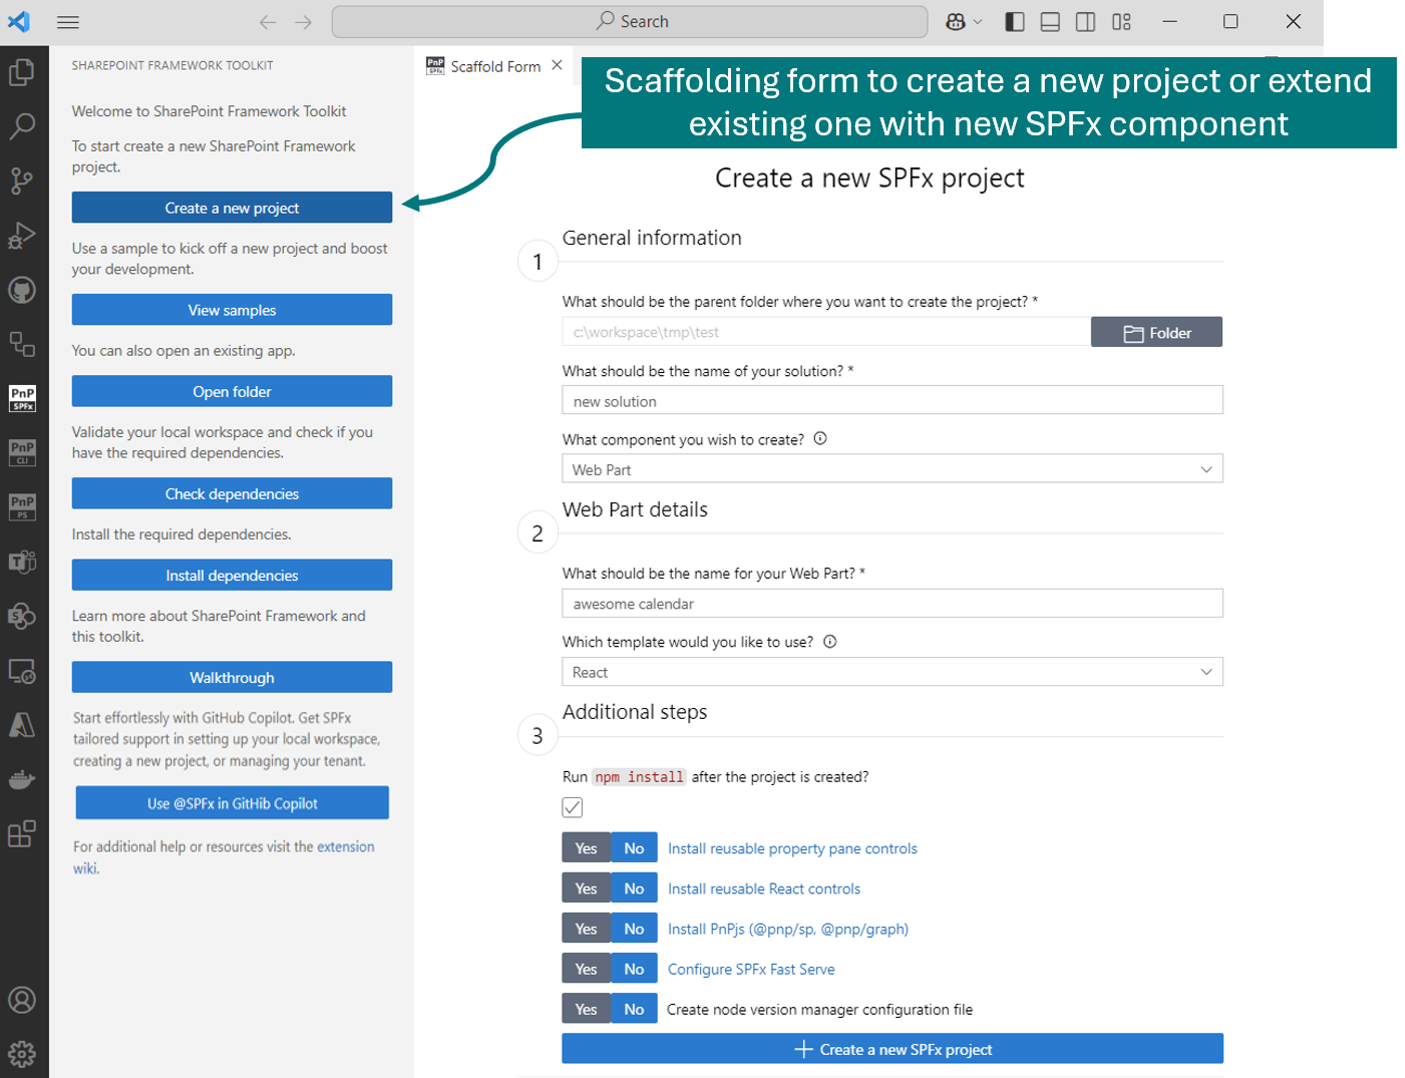
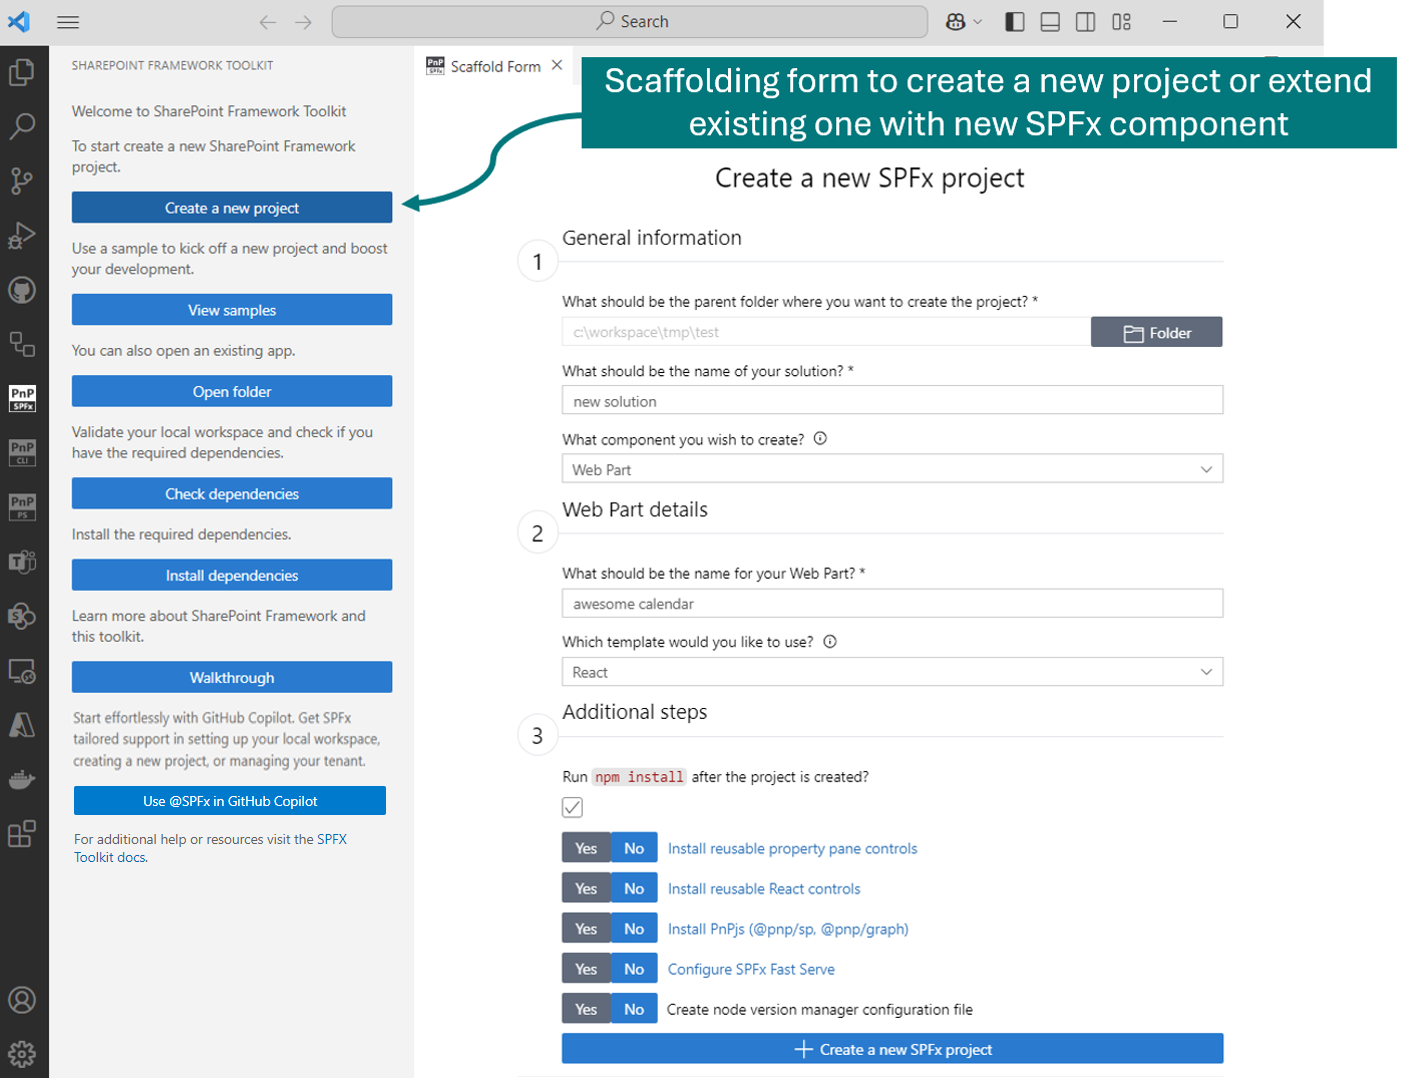
Update wiki link to a new name and URL. Closes #479

Changed region(s): [[0.0306, 0.7041, 0.2754, 0.8265]]

diff --git a/src/panels/CommandPanel.ts b/src/panels/CommandPanel.ts
@@ -346,7 +346,7 @@ export class CommandPanel {
         new ActionTreeItem('Join the Microsoft 365 & Power Platform Community Discord Server', '', { name: 'feedback', custom: false }, undefined, 'vscode.open', Uri.parse('https://aka.ms/community/discord'))
       ]),
       new ActionTreeItem('Support', '', undefined, TreeItemCollapsibleState.Expanded, undefined, undefined, undefined, [
-        new ActionTreeItem('Wiki', '', { name: 'question', custom: false }, undefined, 'vscode.open', Uri.parse('https://github.com/pnp/vscode-viva/wiki')),
+        new ActionTreeItem('Docs', '', { name: 'question', custom: false }, undefined, 'vscode.open', Uri.parse('https://pnp.github.io/vscode-viva/')),
         new ActionTreeItem('Report an issue', '', { name: 'github', custom: false }, undefined, 'vscode.open', Uri.parse('https://github.com/pnp/vscode-viva/issues/new/choose')),
         new ActionTreeItem('Start Walkthrough', '', { name: 'info', custom: false }, undefined, Commands.welcome)
       ])

diff --git a/src/webview/view/components/forms/entraAppReg/RegisterEntraAppRegView.tsx b/src/webview/view/components/forms/entraAppReg/RegisterEntraAppRegView.tsx
@@ -33,7 +33,7 @@ export const RegisterEntraAppRegView: React.FunctionComponent<IRegisterEntraAppR
       </div>
       <div className={'mb-2'}>
         <label className={'block mb-2'}>
-          For more information please visit <VSCodeLink href='https://github.com/pnp/vscode-viva/wiki/5.3-Login-to-your-tenant-&-retrieve-environment-details'>SPFx Toolkit login docs</VSCodeLink>
+          For more information please visit <VSCodeLink href='https://pnp.github.io/vscode-viva/features/login-tenant/'>SPFx Toolkit login docs</VSCodeLink>
         </label>
       </div>
       <div className={'mb-2'}>

diff --git a/README.md b/README.md
@@ -23,7 +23,7 @@
 <p align="center">
   <a href="#-capabilities">Capabilities</a> |
   <a href="#%EF%B8%8F-architecture">Architecture</a> |
-  <a href="#-wiki">Wiki</a> |
+  <a href="#-docs">Docs</a> |
   <a href="#-contributing">Contributing</a> |
   <a href="#-support">Support</a> |
   <a href="#-code-of-conduct">Code of Conduct</a> |
@@ -54,7 +54,7 @@ When running the extension for the first time it will present you a walkthrough 
 
 ![Walkthrough](./assets/images/walkthrough.png)
 
-[Check out our docs for more details](https://github.com/pnp/vscode-viva/wiki/4-Welcome-experience)
+[Check out our docs for more details](https://pnp.github.io/vscode-viva/guides/welcome-experience/)
 
 ### 2⃣ Set up your development environment
 
@@ -75,7 +75,7 @@ In case you do not have all dependencies installed, or some are incorrect versio
 >  [!NOTE]
 >  The list of valid dependencies is based on [set up your development environment recommendations](https://learn.microsoft.com/en-us/sharepoint/dev/spfx/set-up-your-development-environment)
 
-[Check out our docs for more details](https://github.com/pnp/vscode-viva/wiki/5.1-Validate-and-set-up-a-local-workspace)
+[Check out our docs for more details](https://pnp.github.io/vscode-viva/features/setup-workspace/)
 
 ### 3⃣ Don't Start from scratch. Reuse an SPFx web part or extension or ACE sample
 
@@ -92,7 +92,7 @@ Switch between the list and grid view and don't worry about the size of your VS 
 Check out how easy it is to create a new project based on a existing sample 👇. 
 ![Create project based on web part sample](./assets/images/sample-gallery.gif)
 
-[Check out our docs for more details](https://github.com/pnp/vscode-viva/wiki/5.2-Scaffolding#2-dont-start-from-scratch---sample-galleries)
+[Check out our docs for more details](https://pnp.github.io/vscode-viva/features/scaffolding/#2-dont-start-from-scratch---sample-galleries)
 
 ### 4⃣ Start from an ACE scenario
 
@@ -112,7 +112,7 @@ Install additional dependencies with a single click straight from the scaffoldin
 
 ![Additional dependency step](./assets/images/scaffolding-additional-step.png)
 
-[Check out our docs for more details](https://github.com/pnp/vscode-viva/wiki/5.2-Scaffolding#1-scaffold-a-new-spfx-project)
+[Check out our docs for more details](https://pnp.github.io/vscode-viva/features/scaffolding/#1-scaffold-a-new-spfx-project)
 
 ### 6⃣ Sign in to your tenant & retrieve environment details
 
@@ -167,7 +167,7 @@ Using the extension settings you may choose to show or hide the apps in app cata
 
 Sign-in is also required for some actions to work properly like the deploy action which allows you to upload of the .sppkg file to the tenant or site-level App Catalog.
 
-[Check out our docs for more details](https://github.com/pnp/vscode-viva/wiki/5.3-Login-to-your-tenant-&-retrieve-environment-details)
+[Check out our docs for more details](https://pnp.github.io/vscode-viva/features/login-tenant/)
 
 ### 7⃣ Gulp tasks
 
@@ -175,7 +175,7 @@ The extension shows all possible Gulp tasks one may run on an SPFx project. The 
 
 ![Gulp Tasks](./assets/images/tasks.png)
 
-[Check out our docs for more details](https://github.com/pnp/vscode-viva/wiki/5.4-Gulp-tasks)
+[Check out our docs for more details](https://pnp.github.io/vscode-viva/features/gulp-tasks/)
 
 ### 8⃣ Actions
 
@@ -197,7 +197,7 @@ And for Azure DevOps👇
 
 ![Azure DevOps CI CD pipeline](./assets/images/azdo-ci-cd.gif)
 
-[Check out our docs for more details](https://github.com/pnp/vscode-viva/wiki/5.5-Actions#cicd-github-workflow)
+[Check out our docs for more details](https://pnp.github.io/vscode-viva/features/actions/)
 
 - **Upgrade project** - Uses CLI for Microsoft 365 to create a .md and/or code tour report with upgrade guidance to the latest supported SPFx version by the extension. The upgrade guidance provides optional as well as required steps a user needs to take manually in order to upgrade the project. At the end of the guidance file, the user may find a summary of the steps in a single script and a couple of manual steps that need to be taken.
 
@@ -207,53 +207,53 @@ And the code tour guidance will provide you upgrade tips directly in your code!
 
 ![Upgrade project](./assets/images/upgrade-project-code-tour.png)
 
-[Check out our docs for more details](https://github.com/pnp/vscode-viva/wiki/5.5-Actions#upgrade-project)
+[Check out our docs for more details](https://pnp.github.io/vscode-viva/features/actions/#upgrade-project)
 
 - **Validate project** - Creates a validation .md report and/or code tour validation guidance for the currently open SPFx project. The action will automatically detect the SPFx version used and will validate if the project is properly set up.
 
 ![Upgrade project](./assets/images/validate-project.png)
 
-[Check out our docs for more details](https://github.com/pnp/vscode-viva/wiki/5.5-Actions#validate-current-project)
+[Check out our docs for more details](https://pnp.github.io/vscode-viva/features/actions/#validate-current-project)
 
 - **Rename project** - Forget about manual work and let the extension rename your project and generate a new solution ID. 
 
 ![Rename](./assets/images/rename.png)
 
-[Check out our docs for more details](https://github.com/pnp/vscode-viva/wiki/5.5-Actions#rename-current-project)
+[Check out our docs for more details](https://pnp.github.io/vscode-viva/features/actions/#rename-current-project)
 
 - **Grant API permissions** - The action will Grant all API permissions specified in the package-solution.json of the current project. This is especially helpful if you just want to debug your SPFx solution using Workbench. No longer do you need to bundle, package, and deploy the project to then go to the SharePoint admin portal and consent to the permissions. All of that is now done with just a single click. 
 
 ![Grant permissions](./assets/images/grant-permissions.png)
 
-[Check out our docs for more details](https://github.com/pnp/vscode-viva/wiki/5.5-Actions#grant-api-permissions)
+[Check out our docs for more details](https://pnp.github.io/vscode-viva/features/actions/#grant-api-permissions)
 
 - **Deploy project** - This action will only work when the user is logged in to tenant and the sppkg file is present. The action will deploy the project to the selected (tenant or site) app catalog. 
 
 ![Deploy](./assets/images/deploy.png)
 
-[Check out our docs for more details](https://github.com/pnp/vscode-viva/wiki/5.5-Actions#grant-api-permissions)
+[Check out our docs for more details](https://pnp.github.io/vscode-viva/features/actions/#deploy-project)
 
 - **Add new component** - Allows scaffolding a new SPFx project as a new component of the currently opened project. The action under the hood uses the same SharePoint Yeoman generator to scaffold a new project and this feature is an abstraction UI layer. 
 
 ![Add component](./assets/images/add-component.png)
 
-[Check out our docs for more details](https://github.com/pnp/vscode-viva/wiki/5.5-Actions#add-new-component)
+[Check out our docs for more details](https://pnp.github.io/vscode-viva/features/actions/#add-new-component)
 
 - **Set Form Customizer** - Allows to update the New, Edit or View from of any SharePoint List to a given SPFx Form Customizer based on provided GUID. 
 
 ![Set Form Customizer](./assets/images/set-form-customizer-action.png)
 
-[Check out our docs for more details](https://github.com/pnp/vscode-viva/wiki/5.5-Actions#set-form-customizer)
+[Check out our docs for more details](https://pnp.github.io/vscode-viva/features/actions/#set-form-customizer)
 
 - **Increase project version** - This action allows you to increase project major, minor or patch varsion and automatically align the versioning between `package.json` and `package-solution.json` files.
 
 ![Increase project version](./assets/images/increase-versioning.png)
 
-[Check out our docs for more details](https://github.com/pnp/vscode-viva/wiki/5.5-Actions#increase-project-version)
+[Check out our docs for more details](https://pnp.github.io/vscode-viva/features/actions/#increase-project-version)
 
 - **Open sample/scenario galleries of the SPFx web part, extensions, or ACEs projects** - SharePoint Framework Toolkit supports a couple of sample galleries that may be used to scaffold a new SPFx project. 
 
-[Check out our docs for more details](https://github.com/pnp/vscode-viva/wiki/5.5-Actions#open-samplescenario-galleries-of-the-spfx-web-part-extensions-or-aces-projects)
+[Check out our docs for more details](https://pnp.github.io/vscode-viva/features/actions/#open-samplescenario-galleries-of-the-spfx-web-part-extensions-or-aces-projects)
 
 ### 9⃣ Help and feedback section
 
@@ -261,7 +261,7 @@ The help and feedback section is a group of links that will direct you to the ri
 
 ![help and feedback](./assets/images/help-and-feedback.png)
 
-[Check out our docs for more details](https://github.com/pnp/vscode-viva/wiki/5.6-Help-and-feedback-section)
+[Check out our docs for more details](https://pnp.github.io/vscode-viva/guides/help-feedback/)
 
 ### 1⃣0⃣ Coding Snippets
 
@@ -291,7 +291,7 @@ Check it out in action 👇
 
 ![Teams Toolkit integration](./assets/images/better-together.png)
 
-[Check out our docs for more details](https://github.com/pnp/vscode-viva/wiki/6-Teams-Toolkit-Integration)
+[Check out our docs for more details](https://pnp.github.io/vscode-viva/guides/teams-toolkit/)
 
 ### 1⃣2⃣ Node.js Version Manager Support
 
@@ -331,7 +331,7 @@ Currently, we support the following commands:
 - `/code` - [beta] this command is fine-tuned to provide help in coding your SharePoint Framework project and provides additional boosters like validating the correctness of your SPFx project, scaffolding a CI/CD workflow, or renaming your project, and many more.
 - `/info` - this command will allow you to ask and retrieve any kind of data from you SharePoint Online tenant. This command will only work if your are signed in to your tenant. It uses CLI for Microsoft 365 commands under the hood to retrieve and explain data and assets from your SharePoint Online tenant. It does support only retrieving information, it will not support you in creating, updating or removing any resources. For example, you want to check if some list item or file exists. Or how many items with specific metadata do you have on a list? Or ask for content type columns to generate an interface based on the response quickly.
 
-[Check out our docs for more details](https://github.com/pnp/vscode-viva/wiki/8.-SPFx-Toolkit-GitHub-Chat-Participant)
+[Check out our docs for more details](https://pnp.github.io/vscode-viva/guides/chat-participant/)
 
 ## ⚙ Architecture
 
@@ -339,9 +339,9 @@ SharePoint Framework Toolkit for Visual Studio Code is an abstraction layer on t
 
 This means that the features and capabilities provided through this tool are available for any solution which has been built with SPFx.
 
-## 📚 Wiki 
+## 📚 Docs 
 
-For more information on how to use the extension, please refer to the [wiki](https://github.com/pnp/vscode-viva/wiki).
+For more information on how to use the extension, please refer to the [SPFx Toolkit Docs](https://pnp.github.io/vscode-viva/).
 
 ## 👩💻 Contributing
 

diff --git a/assets/walkthrough/actions.md b/assets/walkthrough/actions.md
@@ -18,7 +18,7 @@ And for Azure DevOps👇
 
 ![Azure DevOps CI CD pipeline](../images/azdo-ci-cd.gif)
 
-[Check out our docs for more details](https://github.com/pnp/vscode-viva/wiki/5.5-Actions#cicd-github-workflow)
+[Check out our docs for more details](https://pnp.github.io/vscode-viva/features/actions/#cicd-workflow)
 
 - **Upgrade project** - Uses CLI for Microsoft 365 to create a .md and/or code tour report with upgrade guidance to the latest supported SPFx version by the extension. The upgrade guidance provides optional as well as required steps a user needs to take manually in order to upgrade the project. At the end of the guidance file, the user may find a summary of the steps in a single script and a couple of manual steps that need to be taken.
 
@@ -28,50 +28,50 @@ And the code tour guidance will provide you upgrade tips directly in your code!
 
 ![Upgrade project](./assets/images/upgrade-project-code-tour.png)
 
-[Check out our docs for more details](https://github.com/pnp/vscode-viva/wiki/5.5-Actions#upgrade-project)
+[Check out our docs for more details](https://pnp.github.io/vscode-viva/features/actions/#upgrade-project)
 
 - **Validate project** - Creates a validation .md report and/or code tour validation guidance for the currently open SPFx project. The action will automatically detect the SPFx version used and will validate if the project is properly set up.
 
 ![Upgrade project](../images/validate-project.png)
 
-[Check out our docs for more details](https://github.com/pnp/vscode-viva/wiki/5.5-Actions#validate-current-project)
+[Check out our docs for more details](https://pnp.github.io/vscode-viva/features/actions/#validate-current-project)
 
 - **Rename project** - Forget about manual work and let the extension rename your project and generate a new solution ID. 
 
 ![Rename](../images/rename.png)
 
-[Check out our docs for more details](https://github.com/pnp/vscode-viva/wiki/5.5-Actions#rename-current-project)
+[Check out our docs for more details](https://pnp.github.io/vscode-viva/features/actions/#rename-current-project)
 
 - **Grant API permissions** - The action will Grant all API permissions specified in the package-solution.json of the current project. This is especially helpful if you just want to debug your SPFx solution using Workbench. No longer do you need to bundle, package, and deploy the project to then go to the SharePoint admin portal and consent to the permissions. All of that is now done with just a single click. 
 
 ![Grant permissions](../images/grant-permissions.png)
 
-[Check out our docs for more details](https://github.com/pnp/vscode-viva/wiki/5.5-Actions#grant-api-permissions)
+[Check out our docs for more details](https://pnp.github.io/vscode-viva/features/actions/#grant-api-permissions)
 
 - **Deploy project** - This action will only work when the user is logged in to tenant and the sppkg file is present. The action will deploy the project to the selected (tenant or site) app catalog. 
 
 ![Deploy](../images/deploy.png)
 
-[Check out our docs for more details](https://github.com/pnp/vscode-viva/wiki/5.5-Actions#grant-api-permissions)
+[Check out our docs for more details](https://pnp.github.io/vscode-viva/features/actions/#deploy-project)
 
 - **Add new component** - Allows scaffolding a new SPFx project as a new component of the currently opened project. The action under the hood uses the same SharePoint Yeoman generator to scaffold a new project and this feature is an abstraction UI layer. 
 
 ![Add component](../images/add-component.png)
 
-[Check out our docs for more details](https://github.com/pnp/vscode-viva/wiki/5.5-Actions#add-new-component)
+[Check out our docs for more details](https://pnp.github.io/vscode-viva/features/actions/#add-new-component)
 
 - **Set Form Customizer** - Allows to update the New, Edit or View from of any SharePoint List to a given SPFx Form Customizer based on provided GUID. 
 
 ![Set Form Customizer](../images/set-form-customizer-action.png)
 
-[Check out our docs for more details](https://github.com/pnp/vscode-viva/wiki/5.5-Actions#set-form-customizer)
+[Check out our docs for more details](https://pnp.github.io/vscode-viva/features/actions/#set-form-customizer)
 
 - **Increase project version** - This action allows you to increase project major, minor or patch varsion and automatically align the versioning between `package.json` and `package-solution.json` files.
 
 ![Increase project version](../images/increase-versioning.png)
 
-[Check out our docs for more details](https://github.com/pnp/vscode-viva/wiki/5.5-Actions#increase-project-version)
+[Check out our docs for more details](https://pnp.github.io/vscode-viva/features/actions/#increase-project-version)
 
 - **Open sample/scenario galleries of the SPFx web part, extensions, or ACEs projects** - SharePoint Framework Toolkit supports a couple of sample galleries that may be used to scaffold a new SPFx project. 
 
-[Check out our docs for more details](https://github.com/pnp/vscode-viva/wiki/5.5-Actions#open-samplescenario-galleries-of-the-spfx-web-part-extensions-or-aces-projects)
+[Check out our docs for more details](https://pnp.github.io/vscode-viva/features/actions/#open-samplescenario-galleries-of-the-spfx-web-part-extensions-or-aces-projects)

diff --git a/assets/walkthrough/create-new-project.md b/assets/walkthrough/create-new-project.md
@@ -17,7 +17,7 @@ Install additional dependencies with a single click straight from the scaffoldin
 
 ![Additional dependency step](../images/scaffolding-additional-step.png)
 
-[Check out our docs for more details](https://github.com/pnp/vscode-viva/wiki/5.2-Scaffolding#1-scaffold-a-new-spfx-project)
+[Check out our docs for more details](https://pnp.github.io/vscode-viva/features/scaffolding/#1-scaffold-a-new-spfx-project)
 
 ## Don't Start from scratch. Reuse an SPFx (web part or extension) or ACE sample
 
@@ -35,4 +35,4 @@ Check out how easy it is to create a new project based on a existing sample 👇
 
 ![Create project based on web part sample](../images/sample-gallery.gif)
 
-[Check out our docs for more details](https://github.com/pnp/vscode-viva/wiki/5.2-Scaffolding#2-dont-start-from-scratch---sample-galleries)
+[Check out our docs for more details](https://pnp.github.io/vscode-viva/features/scaffolding/#2-dont-start-from-scratch---sample-galleries)

diff --git a/assets/walkthrough/tenant-details.md b/assets/walkthrough/tenant-details.md
@@ -43,4 +43,4 @@ Using the extension settings you may choose show or hide the tenant-wide extensi
 
 Sign-in is also required for some actions to work properly like the deploy action which allows you to upload of the .sppkg file to the tenant or site-level App Catalog.
 
-[Check out our docs for more details](https://github.com/pnp/vscode-viva/wiki/5.3-Login-to-your-tenant-&-retrieve-environment-details)
+[Check out our docs for more details](https://pnp.github.io/vscode-viva/features/login-tenant/)

diff --git a/assets/walkthrough/cicd-workflow.md b/assets/walkthrough/cicd-workflow.md
@@ -14,4 +14,4 @@ And for Azure DevOps👇
 
 ![Azure DevOps CI CD pipeline](../images/azdo-ci-cd.gif)
 
-[Check out our docs for more details and a step by step guide](https://github.com/pnp/vscode-viva/wiki/5.5-Actions#cicd-github-workflow)
+[Check out our docs for more details and a step by step guide](https://pnp.github.io/vscode-viva/features/actions/#cicd-workflow)

diff --git a/contributing.md b/contributing.md
@@ -35,4 +35,4 @@ root:
 
 ## ❓ More guidance and tips
 
-For more contributing guidance and tips and technical documentation of this extension please go to the repo [wiki](https://github.com/pnp/vscode-viva/wiki).
+For more contributing guidance and tips and technical documentation of this extension please go to the repo [Docs](https://pnp.github.io/vscode-viva/).

diff --git a/assets/walkthrough/tasks.md b/assets/walkthrough/tasks.md
@@ -16,4 +16,4 @@ SPFx Toolkit VS Code extension shows all possible Gulp tasks one may run on an S
 
 ![Gulp Tasks](../images/tasks.png)
 
-[Check out our docs for more details](https://github.com/pnp/vscode-viva/wiki/5.4-Gulp-tasks)
+[Check out our docs for more details](https://pnp.github.io/vscode-viva/features/gulp-tasks/)
